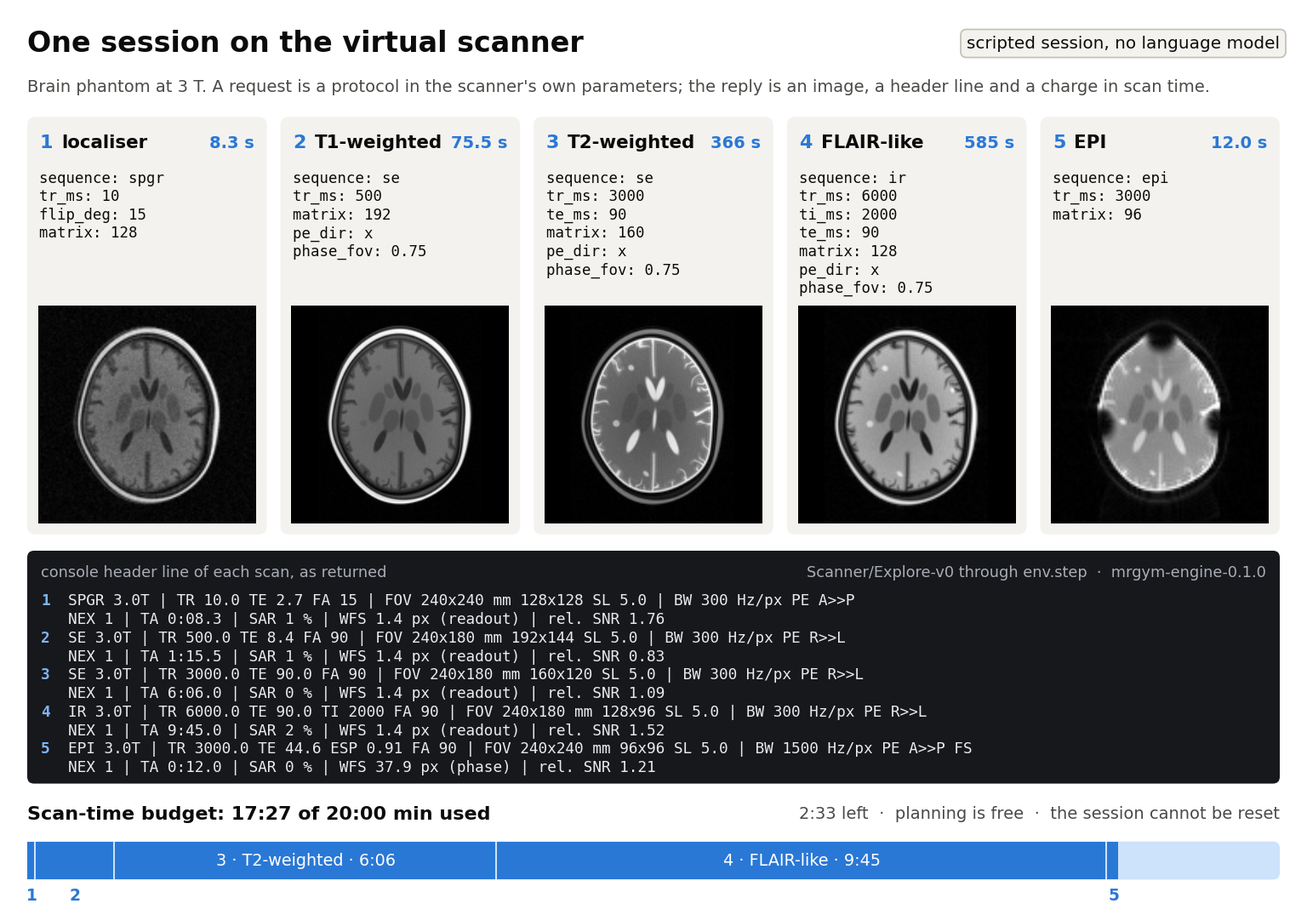
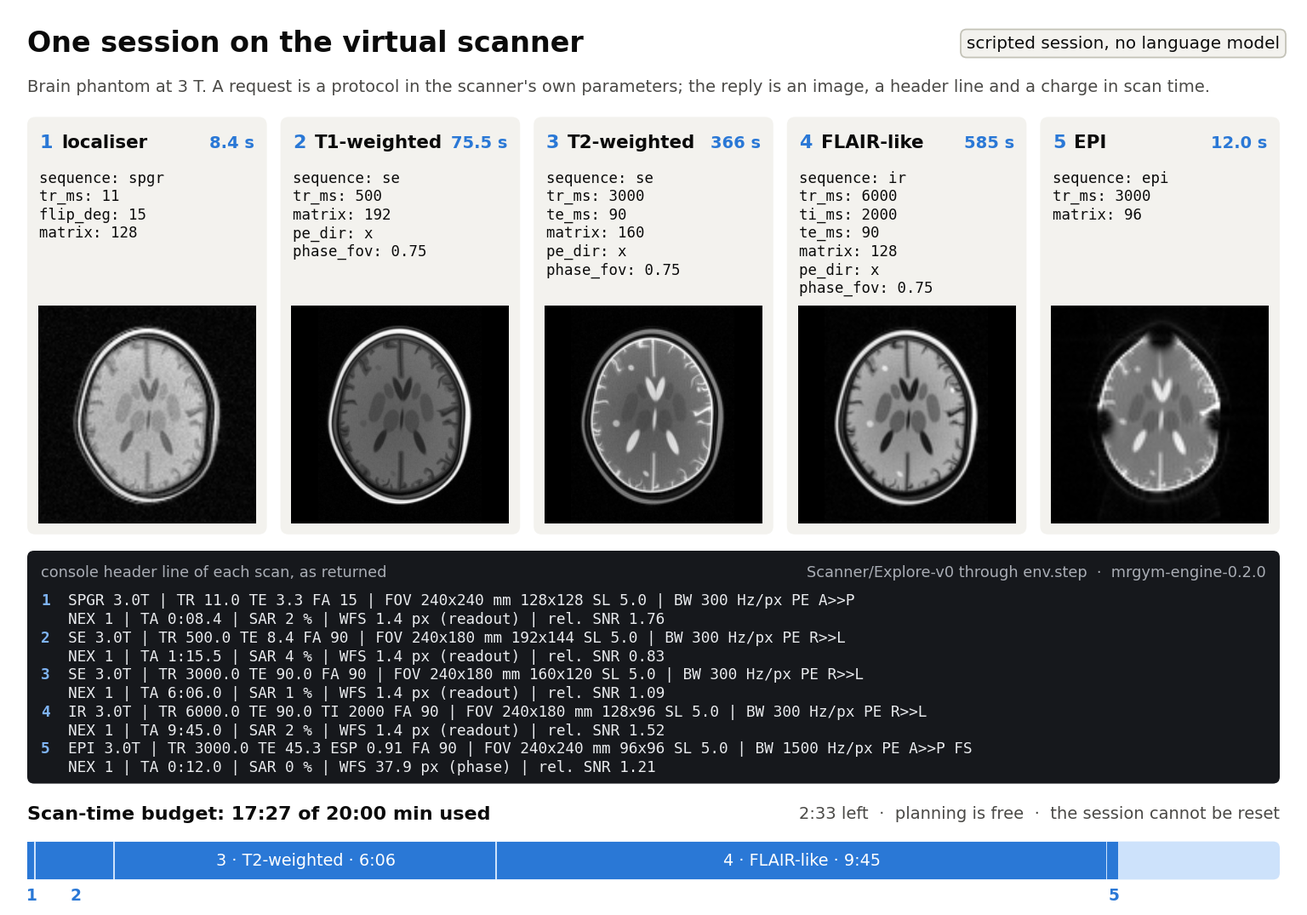
README order: what it is and the scanner first, then try it and the tasks, then the training result and the recipe
The front-page scanner figure is redrawn on engine 0.2.0.

Changed region(s): [[0.0625, 0.3377, 0.1875, 0.5526], [0.8438, 0.3991, 0.9375, 0.5526], [0.875, 0.3684, 0.9062, 0.3991]]

diff --git a/tests/test_results_27b.py b/tests/test_results_27b.py
@@ -169,20 +169,24 @@ def test_the_recipe_file_is_one_the_node_scripts_accept(report, tmp_path):
     assert subprocess.run(["bash", MAKE_MAIN, "train", str(missing), str(tmp_path / "x.sh")], capture_output=True, text=True).returncode == 2
 
 
-def test_the_front_page_fits_one_screen_and_keeps_every_generated_block():
+def test_the_front_page_says_what_it_is_before_it_shows_training_and_keeps_every_generated_block():
     readme, recipe = _read("README.md"), _read("docs", "RECIPE.md")
-    lines = readme.split("\n")
-    first = next(i for i, ln in enumerate(lines) if ln.startswith("<details"))
-    assert first <= 70, f"{first} lines above the first folded section"
-    top = "\n".join(lines[:first])
-    for heading in ("## Does training on it work?", "## The recipe", "## Try it"):
-        assert heading in top
-    assert top.count("<img src=\"assets/") == 1 and "mrgym demo" in top and "(docs/RECIPE.md)" in top
-    for name in ("TRAINING", "RECIPE_SETTINGS", "RECIPE_STATUS"):
-        assert f"<!-- {name}:START -->" in top
+    order = [readme.index(h) for h in ('<img src="assets/hero.png"', "## What it is", "## Try it", "## The tasks",
+                                       "## Does training on it work?", "## The recipe")]
+    assert order == sorted(order)                       # the scanner and what it does first, the training result and the recipe after
+    top = readme[:order[-1]]
+    lines_before_training = readme[:order[4]].count("\n")
+    assert lines_before_training <= 150, f"{lines_before_training} lines before the training result"
+    assert "mrgym demo" in readme[order[2]:order[3]] and "import mrgym" in readme[order[2]:order[3]]
+    tail = readme[order[-1]:]
+    assert "(docs/RECIPE.md)" in tail
+    for name in ("RECIPE_SETTINGS", "RECIPE_STATUS"):
+        assert f"<!-- {name}:START -->" in tail
+    assert "<!-- TRAINING:START -->" in readme[order[4]:order[5]]
     for name in ("COUNTS", "DEMO", "ENVS", "RESULTS", "TIMING"):
-        assert f"<!-- {name}:START -->" in readme[len(top):]                      # kept, folded
+        assert f"<!-- {name}:START -->" in readme
     assert readme.count("<details>") == readme.count("</details>") >= 8
+    top = readme
     lo, hi = (round(100 * x) for x in learn.ENTRY_BAND)
     assert f"{lo}-{hi} %" in top and f"{lo}-{hi} %" in _block(recipe, "RECIPE_PITFALLS")       # the band of mrgym.learn, not a typed one
     assert len(recipe.rstrip("\n").split("\n")) <= 120

diff --git a/tools/figures/hero.py b/tools/figures/hero.py
@@ -19,7 +19,7 @@ SEED = 1
 BUDGET_S = 1200.0
 GEOMETRY = dict(pe_dir="x", phase_fov=0.75)         # the head is narrower left to right: fewer phase-encode lines
 SESSION = [
-    ("localiser", dict(sequence="spgr", tr_ms=10, flip_deg=15, matrix=128)),
+    ("localiser", dict(sequence="spgr", tr_ms=11, flip_deg=15, matrix=128)),
     ("T1-weighted", dict(sequence="se", tr_ms=500, matrix=192, **GEOMETRY)),
     ("T2-weighted", dict(sequence="se", tr_ms=3000, te_ms=90, matrix=160, **GEOMETRY)),
     ("FLAIR-like", dict(sequence="ir", tr_ms=6000, ti_ms=2000, te_ms=90, matrix=128, **GEOMETRY)),

diff --git a/README.md b/README.md
@@ -6,6 +6,136 @@
   <a href="LICENSE"><img alt="Code: Apache-2.0" src="https://img.shields.io/badge/code-Apache--2.0-0e7490"></a>
 </p>
 
+<p align="center">
+  <img src="assets/hero.png" width="100%" alt="A scripted session on the MR Gym virtual scanner: five requests in the scanner's own words, the brain images that came back, and the scan-time budget being spent">
+</p>
+
+## What it is
+
+- **A simulated MRI scanner.** It takes a protocol (sequence, timing, geometry) and returns the image a scanner would: formed in
+  k-space, with noise, wrap-around, fat shift, banding and the other artefacts of the chosen protocol.
+- **A task for an agent.** The agent gets a task text, the scanner's tools (`plan`, `scan`, `view`, `profile`, `read_regions`,
+  `calc`, `submit`) and a scan-time budget. The object, the fields and the noise level are hidden.
+- **A verifier.** The agent delivers a protocol or a measurement; the scanner checks it on the hidden object: reward 1 or 0.
+- **A new object for every seed**, so one environment serves training and testing.
+
+<!-- COUNTS:START -->
+| 6 sequences | 5 phantoms | 2 field strengths | 25 tissue rows, each with a source tag | 63 physics checks | 10 environments (admitted, practice, sandbox) |
+|---|---|---|---|---|---|
+<!-- COUNTS:END -->
+
+<p align="center">
+  <img src="assets/loop.png" width="92%" alt="The loop: the agent sends tool calls to the virtual scanner; the console prices the protocol, the engine images the hidden world; the scanner log and the truth go to the verifier, which pays the reward at the end">
+</p>
+
+## Try it
+
+```bash
+git clone https://github.com/KeWang0622/MRGym.git
+cd MRGym
+pip install -e .
+mrgym demo
+```
+
+No GPU, no network. `mrgym demo` plays one episode with a scripted solution, then shows shortcuts that are built to fail.
+The same loop from Python:
+
+```python
+import mrgym
+
+env = mrgym.make("Scanner/NoWrap-v1", level=2, seed=0)
+obs, info = env.reset()                                    # the task statement; a new hidden object
+tools = env.tools("openai")                                # or "anthropic", "mcp"
+obs, reward, terminated, truncated, info = env.step({"name": "scan", "arguments": {
+    "sequence": "spgr", "tr_ms": 10, "flip_deg": 10, "fov_mm": 288, "matrix": 160, "averages": 2}})
+```
+
+The agent sees tools only; no tool resets the world or reads it. [examples/first_episode.py](examples/first_episode.py)
+
+<details>
+<summary><b>What <code>mrgym demo</code> prints</b>: a scripted solution, then shortcuts that must fail</summary>
+
+<!-- DEMO:START -->
+```text
+$ mrgym demo
+Scanner/NoWrap-v1 · level 2 · seed 0
+scripted solution (no language model): shows the task can be solved through the tools
+  agent -> scanner_info {}
+      (instrument card, 1367 characters)
+  agent -> scan {"sequence":"spgr","tr_ms":11.0,"flip_deg":10.0,"fov_mm":288.0,"matrix":160,"averages":2,"circles":[]}
+      scan_index 0 · 1 image 160x160 (y, x) stored · cost 10.52 s · te_ms 3.33
+      no regions requested
+  agent -> view {"scan_index":0,"image_index":0,"kind":"magnitude"}
+      scan_index 0 (spgr), image_index 0, magnitude, 160x160 (y, x), FOV 288 x 288 mm, pixel 1.8 x 1.8 mm
+      16x16 block means, one digit per 18.0 x 18.0 mm block (y, x), 0-9 spans 0..0.4401; row = y (top = -144 mm), column = x (left = -144 mm); block centres: y_mm after each...
+      0000000000000000 -136
+  agent -> submit {"pe_dir":"y","fov_mm":168.0,"phase_fov":0.595238,"matrix":84,"centre_y_mm":-1.0,"centre_x_mm":16.3,"rotation_deg":90.0}
+      deliverable received; the episode is over
+      reward 1 · every check passed
+  reward 1 · 1 scan(s), 10.5 of 30 s of scan time · scanner log replays: True
+shortcuts that ignore the object: built to fail (this is what makes the reward mean something)
+  prior            reward 0   no scan; the geometry that is safe for any object
+  console_default  reward 0   one token scan, then the console's default field of view, centred, phase along y
+  fixed_recipe     reward 0   one token scan, then one constant geometry (axis, rotation, lines; centred) tuned on other worlds
+  brute_force      reward 0   shrinks a centred square field of view scan by scan until the object touches its border
+  wrong_units      reward 0   the reference's geometry with every length in centimetres
+other scripted controls: may pass
+  size_only        reward 0   the right size and direction, with the field of view left on the isocentre
+  centred_only     reward 0   the field of view left on the isocentre and enlarged until it holds the object (the v0 answer)
+  no_swap          reward 0   moves the field of view but always phase-encodes along y and never turns it
+  no_turn          reward 1   moves the field of view but never turns it
+  open_loop        reward 1   a fixed scan list and a fixed estimator: the reference itself (no scan depends on a measurement)
+  safe_max         reward 0   one scan, then the safe geometry
+a language model lands between; `mrgym run-agent` plays one
+```
+<!-- DEMO:END -->
+
+A level is admitted only when the shortcuts fail on fresh instances: `mrgym gate <id>`.
+
+</details>
+
+## The tasks
+
+Nine scored task families and a sandbox. Each has levels; a level sets how much the task text gives away and how tight the budget is.
+
+- `NoWrap`: prescribe the smallest, fastest field of view that holds an object of unknown size, position and orientation.
+- `NullTissue`: find, for each vial, the inversion time that nulls it.
+- `FatSuppress`: choose and tune the fat suppression of each region in an inhomogeneous field.
+- `BandFree`: set bandwidth and phase cycling so that a balanced SSFP image has no band on the object.
+- `SNRSpec`: meet a signal-to-noise requirement on two images in the least scan time.
+- `PhantomQA`: run the quality tests on an ACR-style phantom and name the faults of the system, if it has any.
+- `ArtefactClinic`: say what causes each artefact in an image and deliver a protocol that removes them.
+- `ProtocolToSpec` and `T1Transmit` (practice): turn requirements into a protocol; measure T1 under a transmit-field error.
+
+<details>
+<summary><b>The environments</b>: given, delivered, scored by, gate result</summary>
+
+<!-- ENVS:START -->
+| Environment | Given | Deliver | Scored by | Kind | Levels of the claim | Stored gate |
+|---|---|---|---|---|---|---|
+| [`Scanner/ArtefactClinic-v0`](envs/scanner-artefactclinic-v0/) | A test object with hidden materials, the protocol of an examination, findings a reader marked on its image, the requirements of the examination; scan time for experiments | For each finding its causes (or none: it is the object), and one protocol that images every finding cleanly inside the requirements | Noise-free re-scan of the delivered protocol on the hidden object against its counterfactual twins (the same protocol with the artefact mechanisms switched off, and the object averaged over each pixel); the diagnosis against the mechanisms that corrupt each finding in the complaint protocol | admitted | 1, 2, 3 | on 300 fresh instances per level the reference passes >= 99 %, no policy that ignores the object passes more than 7 % (95 % bounds) |
+| [`Scanner/BandFree-v0`](envs/scanner-bandfree-v0/) | A test object with vials of hidden materials in a hidden, inhomogeneous field; the scanner; a scan-time budget for probing | For each of two balanced SSFP images: the receiver bandwidth (the repetition time is the console minimum for that bandwidth) and the phase cycle; two phase cycles when one acquisition cannot be band-free | Noise-free scans of the delivered protocols on the hidden object and the echo amplitudes on the marked regions over a drift of the centre frequency either way: every marked region of an image must keep its signal; the number of acquisitions and the bandwidth are compared with the best band-free protocol of the hidden object | admitted | 1, 2, 3 | on 300 fresh instances per level the reference passes >= 94 %, no policy that ignores the object passes more than 3 % (95 % bounds) |
+| [`Scanner/Explore-v0`](envs/scanner-explore-v0/) | A head, an abdomen or a QA phantom at 1.5 or 3 T; one hour of scan time | Nothing | No reward | sandbox | - | no reward |
+| [`Scanner/FatSuppress-v0`](envs/scanner-fatsuppress-v0/) | A test object with several fat-containing vials (a different fat in each) in a strongly inhomogeneous field; the scanner; a scan-time budget for probing | For each marked region the method of its fat-suppressed spin-echo image: spectral fat saturation, or inversion recovery with the inversion time | Noise-free scans of the target image on the hidden object: every region must be suppressed by its method, and inversion recovery passes only where fat saturation is not enough | admitted | 1, 2, 3 | on 300 fresh instances per level the reference passes >= 98 %, no policy that ignores the object passes more than 6 % (95 % bounds) |
+| [`Scanner/NoWrap-v1`](envs/scanner-nowrap-v1/) | An object of hidden size, position and orientation; the scanner; 30 s of scan time for localisers | Geometry of a spin-echo scan: phase-encode axis, field of view, phase field of view, matrix, centre, rotation | Re-scan on the hidden object: whole object inside, no wrap-around, pixel as required, scan time within 10 % of the fastest such geometry | admitted | 2, 3 (practice: 0, 1) | on 300 fresh instances per level the reference passes >= 99 %, no policy that ignores the object passes more than 6 % (95 % bounds) |
+| [`Scanner/NullTissue-v0`](envs/scanner-nulltissue-v0/) | A test object with vials of hidden materials; the scanner; a scan-time budget for probing | For each marked region, the inversion time that nulls it in an inversion-recovery scan with a given repetition time | Noise-free scans of the target protocol on the hidden object: every marked region must be nulled by its inversion time | admitted | 1, 2, 3 (practice: 0) | on 300 fresh instances per level the reference passes >= 92 %, no policy that ignores the object passes more than 3 % (95 % bounds) |
+| [`Scanner/PhantomQA-v0`](envs/scanner-phantomqa-v0/) | The uniform section of the ACR large phantom in a scanner with zero, one or two hidden faults; the site's ACR T1 protocol; the limits of the ACR guidance; a closed list of seven faults; a scan-time budget | The four test quantities measured on the ACR T1 scan, the tests that fail, and the faults of the system | A noise-free scan of the same protocol on the hidden system: the values must agree with the verifier's measurement, the verdicts with the guidance's limits, the faults with the hidden state | admitted | 1, 2, 3 | on 300 fresh instances per level the reference passes >= 99 %, no policy that ignores the object passes more than 3 % (95 % bounds) |
+| [`Scanner/ProtocolToSpec-v0`](envs/scanner-protocoltospec-v0/) | A test object with vials of hidden materials; the scanner; the standard protocol of a two-image inversion-recovery examination; a scan-time budget for the standard protocol at low resolution and one repeat of it | For each of the two images: inversion time, echo time and number of averages (the averages share one scan-time limit) | Noise-free scans of the delivered protocols on the hidden object with the analytic noise of the hidden receiver: a T1 contrast ratio, a T2 contrast ratio and an SNR must hold for each image, and the scan times of the two images together must stay within a limit | practice | 1, 2, 3 | level(s) 1, 3 admitted; fixed_recipe#2 passes 25 of 300 (upper bound 11.4 % > 10 %) |
+| [`Scanner/SNRSpec-v0`](envs/scanner-snrspec-v0/) | A test object with vials of hidden materials; the scanner; a scan-time budget for probing | For each of two spin-echo images of prescribed geometry: repetition time, number of averages and receiver bandwidth | Noise-free scans of the delivered protocols on the hidden object with the analytic noise of the hidden receiver: every marked region must reach its required SNR, in a scan time within a stated factor of the shortest that does (exhaustive search on the hidden world) | admitted | 1, 2, 3 | on 300 fresh instances per level the reference passes >= 97 %, no policy that ignores the object passes more than 3 % (95 % bounds) |
+| [`Scanner/T1Transmit-v1`](envs/scanner-t1transmit-v1/) | A QA phantom with 4 to 7 vials, the scanner, a scan-time budget | T1 of every marked vial, in ms | The hidden T1 of every vial: each delivered value within a factor 1.1 of it | practice | 1, 2, 3 | level(s) 1 admitted; ignores_profile loses only 9.0 points against the reference (lower bound 6.3 < 25) |
+<!-- ENVS:END -->
+
+- **Environment**: one job with its own scoring rule. **Level**: the hidden-world prior and the budget.
+  **Episode**: one seeded attempt.
+- `Scanner/NoWrap-v0` and `Scanner/T1Transmit-v0` are retired: `mrgym==0.1.0` is the last package that serves them.
+
+```bash
+mrgym list
+mrgym check Scanner/NoWrap-v1
+```
+
+</details>
+
 ## Does training on it work?
 
 <!-- TRAINING:START -->
@@ -50,100 +180,17 @@ Verified on commit `ef6d766` (run `v07`, 8 x H100 with 24,576-token responses; r
 <!-- RECIPE_STATUS:END -->
 Cost, pitfalls, other task families: **[docs/RECIPE.md](docs/RECIPE.md)**.
 
-## Try it
-
-```bash
-git clone https://github.com/KeWang0622/MRGym.git
-cd MRGym
-pip install -e .
-mrgym demo
-```
-
-No GPU, no network. `mrgym demo` plays a scripted solution, then shortcuts built to fail on the same hidden object.
-
 [Environments](envs/) · [Scanner manual](docs/scanner.md) · [Physics validation](docs/physics/validation.md) ·
 [Limits](docs/physics/limits.md) · [Design](docs/DESIGN.md) · [All documentation](docs/README.md)
 
 <details>
-<summary><b>What <code>mrgym demo</code> prints</b>: a scripted solution, then shortcuts that must fail</summary>
-
-<!-- DEMO:START -->
-```text
-$ mrgym demo
-Scanner/NoWrap-v1 · level 2 · seed 0
-scripted solution (no language model): shows the task can be solved through the tools
-  agent -> scanner_info {}
-      (instrument card, 1367 characters)
-  agent -> scan {"sequence":"spgr","tr_ms":11.0,"flip_deg":10.0,"fov_mm":288.0,"matrix":160,"averages":2,"circles":[]}
-      scan_index 0 · 1 image 160x160 (y, x) stored · cost 10.52 s · te_ms 3.33
-      no regions requested
-  agent -> view {"scan_index":0,"image_index":0,"kind":"magnitude"}
-      scan_index 0 (spgr), image_index 0, magnitude, 160x160 (y, x), FOV 288 x 288 mm, pixel 1.8 x 1.8 mm
-      16x16 block means, one digit per 18.0 x 18.0 mm block (y, x), 0-9 spans 0..0.4401; row = y (top = -144 mm), column = x (left = -144 mm); block centres: y_mm after each...
-      0000000000000000 -136
-  agent -> submit {"pe_dir":"y","fov_mm":168.0,"phase_fov":0.595238,"matrix":84,"centre_y_mm":-1.0,"centre_x_mm":16.3,"rotation_deg":90.0}
-      deliverable received; the episode is over
-      reward 1 · every check passed
-  reward 1 · 1 scan(s), 10.5 of 30 s of scan time · scanner log replays: True
-shortcuts that ignore the object: built to fail (this is what makes the reward mean something)
-  prior            reward 0   no scan; the geometry that is safe for any object
-  console_default  reward 0   one token scan, then the console's default field of view, centred, phase along y
-  fixed_recipe     reward 0   one token scan, then one constant geometry (axis, rotation, lines; centred) tuned on other worlds
-  brute_force      reward 0   shrinks a centred square field of view scan by scan until the object touches its border
-  wrong_units      reward 0   the reference's geometry with every length in centimetres
-other scripted controls: may pass
-  size_only        reward 0   the right size and direction, with the field of view left on the isocentre
-  centred_only     reward 0   the field of view left on the isocentre and enlarged until it holds the object (the v0 answer)
-  no_swap          reward 0   moves the field of view but always phase-encodes along y and never turns it
-  no_turn          reward 1   moves the field of view but never turns it
-  open_loop        reward 1   a fixed scan list and a fixed estimator: the reference itself (no scan depends on a measurement)
-  safe_max         reward 0   one scan, then the safe geometry
-a language model lands between; `mrgym run-agent` plays one
-```
-<!-- DEMO:END -->
-
-A level is admitted only when the shortcuts fail on fresh instances: `mrgym gate <id>`.
-
-</details>
-
-<details>
-<summary><b>The same loop from Python</b>: <code>make</code>, <code>reset</code>, <code>step</code></summary>
-
-```python
-import mrgym
-
-env = mrgym.make("Scanner/NoWrap-v1", level=2, seed=0)
-obs, info = env.reset()                                    # the task statement; a new hidden object
-tools = env.tools("openai")                                # or "anthropic", "mcp"
-obs, reward, terminated, truncated, info = env.step({"name": "scan", "arguments": {
-    "sequence": "spgr", "tr_ms": 10, "flip_deg": 10, "fov_mm": 288, "matrix": 160, "averages": 2}})
-```
-
-The agent sees tools only; no tool resets the world or reads it. [examples/first_episode.py](examples/first_episode.py)
-
-<p align="center">
-  <img src="assets/loop.png" width="92%" alt="The loop: the agent sends tool calls to the virtual scanner; the console prices the protocol, the engine images the hidden world; the scanner log and the truth go to the verifier, which pays the reward at the end">
-</p>
-
-</details>
-
-<details>
 <summary><b>What is on the scanner</b>: tools, sequences, phantoms; images formed in k-space</summary>
-
-<!-- COUNTS:START -->
-| 6 sequences | 5 phantoms | 2 field strengths | 25 tissue rows, each with a source tag | 63 physics checks | 10 environments (admitted, practice, sandbox) |
-|---|---|---|---|---|---|
-<!-- COUNTS:END -->
 
 - Tools: `scanner_info`, `plan`, `scan`, `read_regions`, `view`, `profile`, `status`, `calc`, one terminal tool.
   Only `scan` costs scan time.
 - Sequences: spoiled gradient echo, actual flip-angle imaging, spin echo, inversion recovery, balanced SSFP, EPI.
 - Hidden: the object, the transmit and receive fields, the off-resonance, the noise level.
 - Everything the agent is told: [scanner manual](docs/scanner.md).
-
-<p align="center">
-  <img src="assets/hero.png" width="100%" alt="A scripted session on the MR Gym virtual scanner: five requests in the scanner's own words, the brain images that came back, and the scan-time budget being spent">
-</p>
 
 <p align="center">
   <img src="assets/hidden_vs_received.png" width="100%" alt="Above: the hidden world of one session, tissue classes, T1, off-resonance and transmit field. Below: one scan request and everything it returns, an image, the header line and region read-outs">
@@ -161,35 +208,6 @@ The agent sees tools only; no tool resets the world or reads it. [examples/first
 mrgym scan sequence=se tr_ms=500 te_ms=15 matrix=256 --out mrgym_out/brain_t1w.png
 mrgym scan --phantom abdomen sequence=spgr tr_ms=120 flip_deg=70 te_ms=3.45 matrix=192 --out mrgym_out/abdomen_opposed_phase.png
 mrgym play --phantom brain --lesion ms
-```
-
-</details>
-
-<details>
-<summary><b>The environments</b>: given, delivered, scored by, gate result</summary>
-
-<!-- ENVS:START -->
-| Environment | Given | Deliver | Scored by | Kind | Levels of the claim | Stored gate |
-|---|---|---|---|---|---|---|
-| [`Scanner/ArtefactClinic-v0`](envs/scanner-artefactclinic-v0/) | A test object with hidden materials, the protocol of an examination, findings a reader marked on its image, the requirements of the examination; scan time for experiments | For each finding its causes (or none: it is the object), and one protocol that images every finding cleanly inside the requirements | Noise-free re-scan of the delivered protocol on the hidden object against its counterfactual twins (the same protocol with the artefact mechanisms switched off, and the object averaged over each pixel); the diagnosis against the mechanisms that corrupt each finding in the complaint protocol | admitted | 1, 2, 3 | on 300 fresh instances per level the reference passes >= 99 %, no policy that ignores the object passes more than 7 % (95 % bounds) |
-| [`Scanner/BandFree-v0`](envs/scanner-bandfree-v0/) | A test object with vials of hidden materials in a hidden, inhomogeneous field; the scanner; a scan-time budget for probing | For each of two balanced SSFP images: the receiver bandwidth (the repetition time is the console minimum for that bandwidth) and the phase cycle; two phase cycles when one acquisition cannot be band-free | Noise-free scans of the delivered protocols on the hidden object and the echo amplitudes on the marked regions over a drift of the centre frequency either way: every marked region of an image must keep its signal; the number of acquisitions and the bandwidth are compared with the best band-free protocol of the hidden object | admitted | 1, 2, 3 | on 300 fresh instances per level the reference passes >= 94 %, no policy that ignores the object passes more than 3 % (95 % bounds) |
-| [`Scanner/Explore-v0`](envs/scanner-explore-v0/) | A head, an abdomen or a QA phantom at 1.5 or 3 T; one hour of scan time | Nothing | No reward | sandbox | - | no reward |
-| [`Scanner/FatSuppress-v0`](envs/scanner-fatsuppress-v0/) | A test object with several fat-containing vials (a different fat in each) in a strongly inhomogeneous field; the scanner; a scan-time budget for probing | For each marked region the method of its fat-suppressed spin-echo image: spectral fat saturation, or inversion recovery with the inversion time | Noise-free scans of the target image on the hidden object: every region must be suppressed by its method, and inversion recovery passes only where fat saturation is not enough | admitted | 1, 2, 3 | on 300 fresh instances per level the reference passes >= 98 %, no policy that ignores the object passes more than 6 % (95 % bounds) |
-| [`Scanner/NoWrap-v1`](envs/scanner-nowrap-v1/) | An object of hidden size, position and orientation; the scanner; 30 s of scan time for localisers | Geometry of a spin-echo scan: phase-encode axis, field of view, phase field of view, matrix, centre, rotation | Re-scan on the hidden object: whole object inside, no wrap-around, pixel as required, scan time within 10 % of the fastest such geometry | admitted | 2, 3 (practice: 0, 1) | on 300 fresh instances per level the reference passes >= 99 %, no policy that ignores the object passes more than 6 % (95 % bounds) |
-| [`Scanner/NullTissue-v0`](envs/scanner-nulltissue-v0/) | A test object with vials of hidden materials; the scanner; a scan-time budget for probing | For each marked region, the inversion time that nulls it in an inversion-recovery scan with a given repetition time | Noise-free scans of the target protocol on the hidden object: every marked region must be nulled by its inversion time | admitted | 1, 2, 3 (practice: 0) | on 300 fresh instances per level the reference passes >= 92 %, no policy that ignores the object passes more than 3 % (95 % bounds) |
-| [`Scanner/PhantomQA-v0`](envs/scanner-phantomqa-v0/) | The uniform section of the ACR large phantom in a scanner with zero, one or two hidden faults; the site's ACR T1 protocol; the limits of the ACR guidance; a closed list of seven faults; a scan-time budget | The four test quantities measured on the ACR T1 scan, the tests that fail, and the faults of the system | A noise-free scan of the same protocol on the hidden system: the values must agree with the verifier's measurement, the verdicts with the guidance's limits, the faults with the hidden state | admitted | 1, 2, 3 | on 300 fresh instances per level the reference passes >= 99 %, no policy that ignores the object passes more than 3 % (95 % bounds) |
-| [`Scanner/ProtocolToSpec-v0`](envs/scanner-protocoltospec-v0/) | A test object with vials of hidden materials; the scanner; the standard protocol of a two-image inversion-recovery examination; a scan-time budget for the standard protocol at low resolution and one repeat of it | For each of the two images: inversion time, echo time and number of averages (the averages share one scan-time limit) | Noise-free scans of the delivered protocols on the hidden object with the analytic noise of the hidden receiver: a T1 contrast ratio, a T2 contrast ratio and an SNR must hold for each image, and the scan times of the two images together must stay within a limit | practice | 1, 2, 3 | level(s) 1, 3 admitted; fixed_recipe#2 passes 25 of 300 (upper bound 11.4 % > 10 %) |
-| [`Scanner/SNRSpec-v0`](envs/scanner-snrspec-v0/) | A test object with vials of hidden materials; the scanner; a scan-time budget for probing | For each of two spin-echo images of prescribed geometry: repetition time, number of averages and receiver bandwidth | Noise-free scans of the delivered protocols on the hidden object with the analytic noise of the hidden receiver: every marked region must reach its required SNR, in a scan time within a stated factor of the shortest that does (exhaustive search on the hidden world) | admitted | 1, 2, 3 | on 300 fresh instances per level the reference passes >= 97 %, no policy that ignores the object passes more than 3 % (95 % bounds) |
-| [`Scanner/T1Transmit-v1`](envs/scanner-t1transmit-v1/) | A QA phantom with 4 to 7 vials, the scanner, a scan-time budget | T1 of every marked vial, in ms | The hidden T1 of every vial: each delivered value within a factor 1.1 of it | practice | 1, 2, 3 | level(s) 1 admitted; ignores_profile loses only 9.0 points against the reference (lower bound 6.3 < 25) |
-<!-- ENVS:END -->
-
-- **Environment**: one job with its own scoring rule. **Level**: the hidden-world prior and the budget.
-  **Episode**: one seeded attempt.
-- `Scanner/NoWrap-v0` and `Scanner/T1Transmit-v0` are retired: `mrgym==0.1.0` is the last package that serves them.
-
-```bash
-mrgym list
-mrgym check Scanner/NoWrap-v1
 ```
 
 </details>
